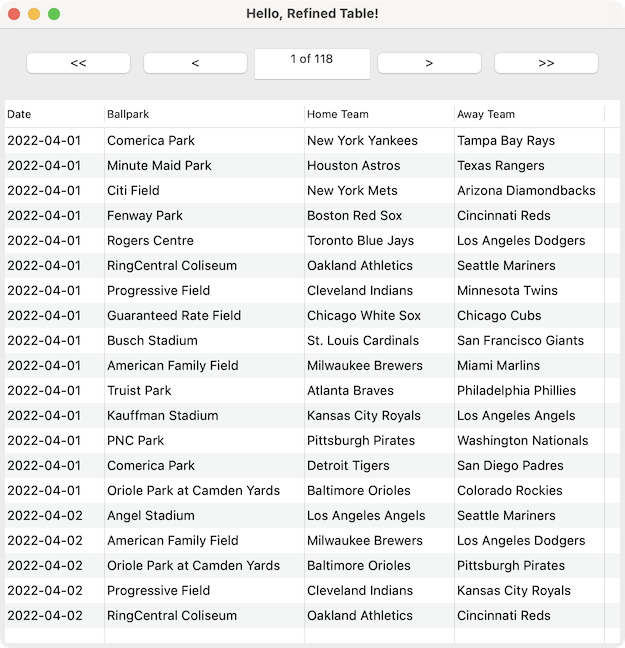
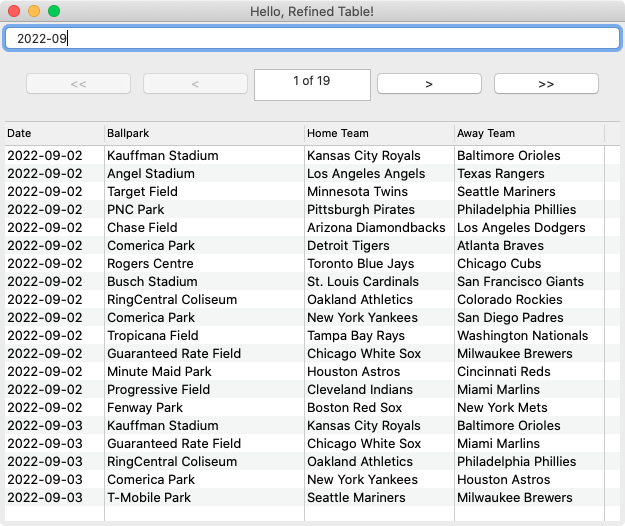
Document refined_table filtering feature with screenshot

diff --git a/lib/glimmer/swt/custom/refined_table.rb b/lib/glimmer/swt/custom/refined_table.rb
@@ -38,6 +38,7 @@ module Glimmer
         attr_reader :table_proxy, :page_text_proxy, :first_button_proxy, :previous_button_proxy, :next_button_proxy, :last_button_proxy
         
         before_body do
+          self.query ||= ''
           self.model_array ||= []
           self.filtered_model_array = []
           self.refined_model_array = []

diff --git a/README.md b/README.md
@@ -1,4 +1,4 @@
-# [<img src="https://raw.githubusercontent.com/AndyObtiva/glimmer/master/images/glimmer-logo-hi-res.png" height=85 />](https://github.com/AndyObtiva/glimmer) Glimmer DSL for SWT 4.24.4.1
+# [<img src="https://raw.githubusercontent.com/AndyObtiva/glimmer/master/images/glimmer-logo-hi-res.png" height=85 />](https://github.com/AndyObtiva/glimmer) Glimmer DSL for SWT 4.24.4.2
 ## JRuby Desktop Development GUI Framework
 [![Gem Version](https://badge.fury.io/rb/glimmer-dsl-swt.svg)](http://badge.fury.io/rb/glimmer-dsl-swt)
 [![Travis CI](https://travis-ci.com/AndyObtiva/glimmer-dsl-swt.svg?branch=master)](https://travis-ci.com/github/AndyObtiva/glimmer-dsl-swt)
@@ -21,7 +21,7 @@ Featured in JRuby Cookbook](http://shop.oreilly.com/product/9780596519650.do) an
 
 ![Eclipse SWT RCP NASA Mars Rover](/images/glimmer-eclipse-swt-rcp-nasa-mars-rover.png)
 
-[Glimmer DSL for SWT](https://rubygems.org/gems/glimmer-dsl-swt) 4.24.4.1 includes [SWT 4.24](https://download.eclipse.org/eclipse/downloads/drops4/R-4.24-202206070700/), which was released on June 7, 2022. Gem version numbers are in sync with the SWT library versions. The first two digits represent the SWT version number. The last two digits represent the minor and patch versions of Glimmer DSL for SWT.
+[Glimmer DSL for SWT](https://rubygems.org/gems/glimmer-dsl-swt) 4.24.4.2 includes [SWT 4.24](https://download.eclipse.org/eclipse/downloads/drops4/R-4.24-202206070700/), which was released on June 7, 2022. Gem version numbers are in sync with the SWT library versions. The first two digits represent the SWT version number. The last two digits represent the minor and patch versions of Glimmer DSL for SWT.
 
 **Starting in version 4.20.0.0, [Glimmer DSL for SWT](https://rubygems.org/gems/glimmer-dsl-swt) comes with the new [***Shine***](/docs/reference/GLIMMER_GUI_DSL_SYNTAX.md#shine) syntax** for highly intuitive and visually expressive View/Model Attribute Mapping, relying on `<=>` for bidirectional (two-way) data-binding and `<=` for unidirectional (one-way) data-binding, providing an alternative to the `bind` keyword. That was [originally conceived back in 2007](https://andymaleh.blogspot.com/2007/12/data-shining-in-glimmer.html).
 
@@ -338,7 +338,7 @@ jgem install glimmer-dsl-swt
 
 Or this command if you want a specific version:
 ```
-jgem install glimmer-dsl-swt -v 4.24.4.1
+jgem install glimmer-dsl-swt -v 4.24.4.2
 ```
 
 `jgem` is JRuby's version of `gem` command.
@@ -366,7 +366,7 @@ Note: if you're using activerecord or activesupport, keep in mind that Glimmer u
 
 Add the following to `Gemfile`:
 ```
-gem 'glimmer-dsl-swt', '~> 4.24.4.1'
+gem 'glimmer-dsl-swt', '~> 4.24.4.2'
 ```
 
 And, then run:
@@ -389,7 +389,7 @@ glimmer
 ```
 
 ```
-Glimmer (JRuby Desktop Development GUI Framework) - JRuby Gem: glimmer-dsl-swt v4.24.4.1
+Glimmer (JRuby Desktop Development GUI Framework) - JRuby Gem: glimmer-dsl-swt v4.24.4.2
       
 Usage: glimmer [--bundler] [--pd] [--quiet] [--debug] [--log-level=VALUE] [[ENV_VAR=VALUE]...] [[-jruby-option]...] (application.rb or task[task_args]) [[application2.rb]...]
 

diff --git a/CHANGELOG.md b/CHANGELOG.md
@@ -2,11 +2,11 @@
 
 ## 4.24.4.2
 
-- `refined_table` filtering
-- Display vertical scroll bar when setting `refined_table` `per_page` to a hight value that results in table exceeding screen height
+- `refined_table` filtering support
+- Ensure correct `refined_table` enablement of pagination buttons based on whether on first/last page or not
+- Display vertical scroll bar when setting `refined_table` `per_page` to a height value that results in table exceeding screen height
 - Support `refined_table` nested elements `first_button {}`, `previous_button {}`, `page_text {}`, `next_button {}`, `last_button {}` to customize every widget within.
 - Support `refined_table` attributes for accessing nested elements: `table_proxy`, `first_button_proxy`, `previous_button_proxy`, `page_text_proxy`, `next_button_proxy`, `last_button_proxy` to customize every widget within.
-- Ensure correct `refined_table` enablement of pagination buttons based on whether on first/last page or not
 
 ## 4.24.4.1
 
@@ -16,6 +16,8 @@
 
 ## 4.24.4.0
 
+- `refined_table` custom widget with pagination support (and future filtering support)
+- Hello, Refined Table! sample demonstrating `refined_table`
 - Save `WidgetBinding` instances on `WidgetProxy` objects via `widget_bindings` attribute
 - Support specifying `@children_owner` in any custom widget for which adding children will not add them under the `body_root` (e.g. a composite wrapping a table will designate the table as the `@children_owner` for adding `table_column`s)
 - Add explicit `shell_proxy` method to `Glimmer::UI::CustomWidget` that delegates to `body_root` to avoid annoying false negative error every time that method is called

diff --git a/docs/reference/GLIMMER_GUI_DSL_SYNTAX.md b/docs/reference/GLIMMER_GUI_DSL_SYNTAX.md
@@ -4311,13 +4311,14 @@ Here is an explanation of the example above:
 
 **(ALPHA FEATURE)**
 
-`refined_table` is a custom widget that can handle very large amounts of data by applying pagination.
+`refined_table` is a custom widget that can handle very large amounts of data by applying pagination and filtering.
 
 Just use like a standard `table`, but data-bind models to the `model_array` property instead of `items`. `refined_table` will take care of the rest.
 
 Options:
 - `per_page` (default: `10`): specifies how many rows to display per page
 - `page` (default: `1` if table is filled and `0` otherwise): specifies initial page
+- `query` (default: `''`): specifies filter query term (empty shows all results)
 
 Note that currently `refined_table` only supports displaying a **read-only** table (meaning it can read updates from the model, but it cannot write back to the model through `TableEditor` cells).
 
